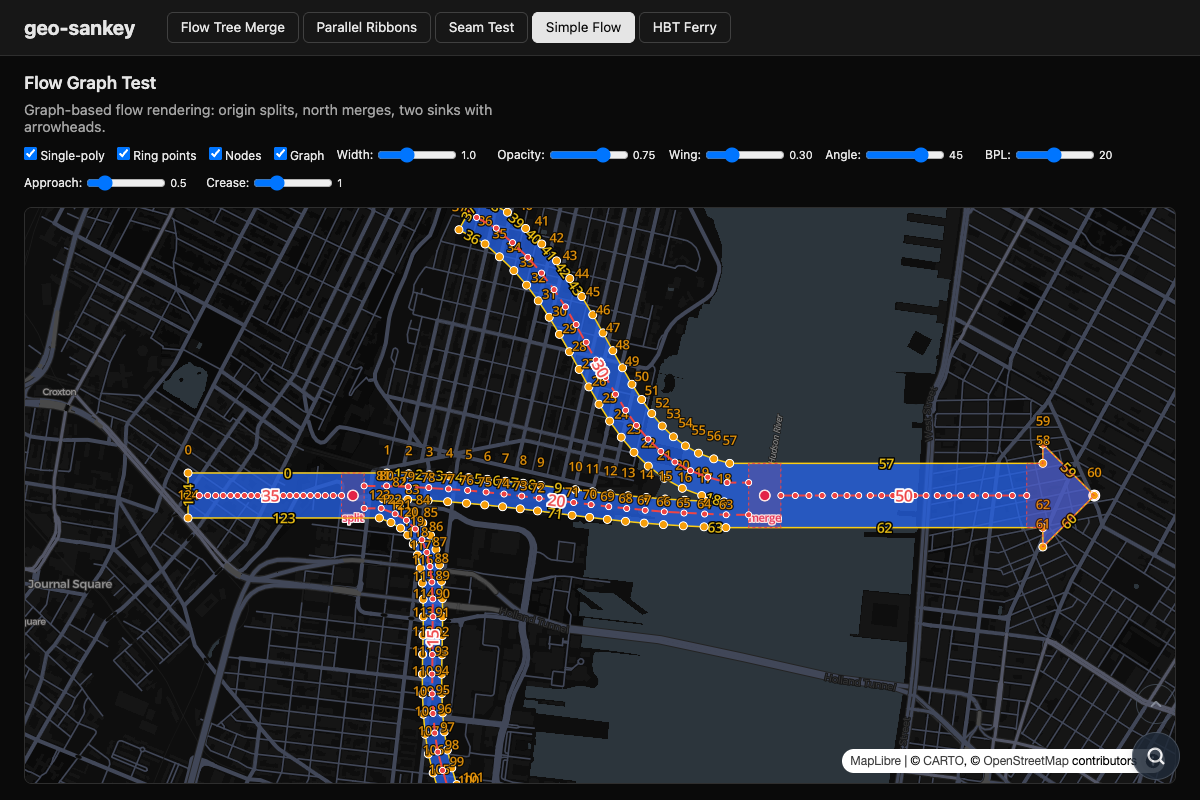
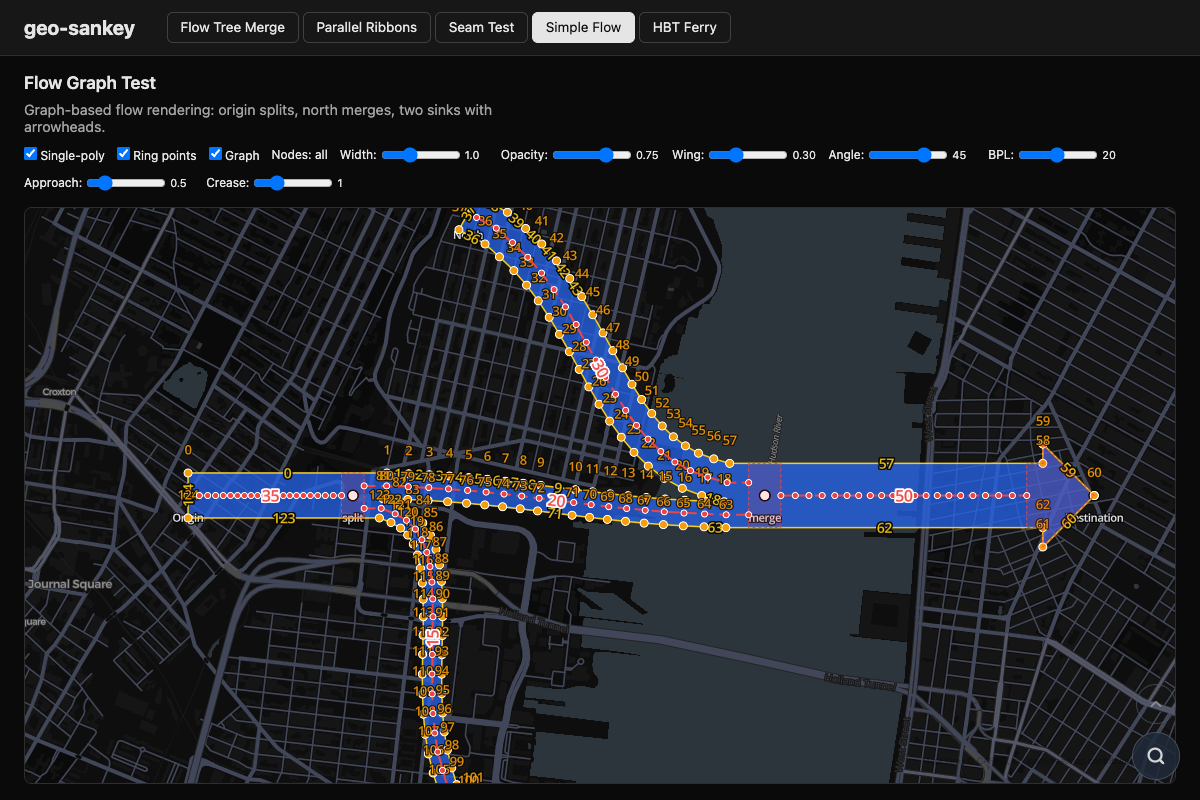
Update README, screenshots, and `scrns` config
- README: clarify NY Waterway (partial), clickable screenshot links to demo state, `wing` default 0.4
- Screenshots: regenerated with endpoint labels, tighter crop, no UI artifacts
- Remove unused screenshots (`hbt-ferry-graph`, `simple-flow`)
- Fix `scrns` config: flat `ScreenshotsMap` export (was nested, only took one screenshot)

🤖 Generated with [Claude Code](https://claude.com/claude-code)

diff --git a/scrns.config.ts b/scrns.config.ts
@@ -1,28 +1,17 @@
-import type { Config } from 'scrns'
+import type { ScreenshotsMap } from 'scrns'
 
 const selector = '.maplibregl-canvas'
 const width = 1200
-const height = 800
 const preScreenshotSleep = 5000
 
-const config: Config = {
-  screenshots: {
-    'hbt-ferry': {
-      query: '?ex=hbt&sp=1&o=0.75&llz=40.7450_-74.0150_14.00',
-      selector, width, height, preScreenshotSleep,
-    },
-    'hbt-ferry-graph': {
-      query: '?ex=hbt&sp=1&o=0.75&llz=40.7450_-74.0150_14.00&graph=1&nodes=1',
-      selector, width, height, preScreenshotSleep,
-    },
-    'simple-flow': {
-      query: '?ex=ferry&sp=1&o=0.75&llz=40.7350_-74.0300_13.50',
-      selector, width, height, preScreenshotSleep,
-    },
-    'simple-flow-debug': {
-      query: '?ex=ferry&sp=1&o=0.75&llz=40.7350_-74.0300_13.50&ring=1&graph=1&nodes=1',
-      selector, width, height, preScreenshotSleep,
-    },
+const config: ScreenshotsMap = {
+  'hbt-ferry': {
+    query: '?ex=hbt&sp=1&o=0.85&nodes=1&llz=40.7415_-74.0180_12.60',
+    selector, width: 900, height: 1100, preScreenshotSleep,
+  },
+  'simple-flow-debug': {
+    query: '?ex=ferry&sp=1&o=0.75&llz=40.7350_-74.0300_13.50&ring=1&graph=1&nodes=2',
+    selector, width, height: 800, preScreenshotSleep,
   },
 }
 

diff --git a/README.md b/README.md
@@ -1,14 +1,12 @@
 # geo-sankey
 
-Pure-geometry library for geographic flow maps: width-proportional ribbon polygons with merge/split layout on real maps.
-
-Given a graph of positioned nodes and weighted edges, `geo-sankey` computes ribbon polygon geometry and outputs GeoJSON. No rendering dependencies — works with any map renderer (MapLibre, Leaflet, deck.gl, etc.).
+Geometry library for geographic flow maps: width-proportional ribbon polygons with merge/split layout on real maps. Outputs GeoJSON — no rendering dependencies, works with any map renderer (MapLibre, Leaflet, deck.gl, etc.).
 
 **[Live Demo →][demo]** · [geo-sankey.rbw.sh][demo]
 
-| [HBT] Ferry Network | Simple Flow (debug overlays) |
+| [NY Waterway][nyw] ferry network (partial) | Simple Flow (debug overlays) |
 |---|---|
-| ![HBT Ferry](screenshots/hbt-ferry.png) | ![Simple Flow debug](screenshots/simple-flow-debug.png) |
+| [![HBT Ferry][hbt-img]][hbt-demo] | [![Simple Flow debug][sf-img]][sf-demo] |
 
 ## Install
 
@@ -53,7 +51,7 @@ const fc = renderFlowGraphSinglePoly(graph, {
 | Option | Default | Description |
 |--------|---------|-------------|
 | `pxPerWeight` | — | Pixels per unit weight (controls ribbon width) |
-| `wing` | `0.3` | Arrowhead wing extension (fraction of stem width, per side) |
+| `wing` | `0.4` | Arrowhead wing extension (fraction of stem width, per side) |
 | `angle` | `45` | Arrowhead wingtip angle (degrees) |
 | `bezierN` | `20` | Bezier sample count per edge (1 = straight lines) |
 | `nodeApproach` | `0.5` | Through-node approach zone (multiple of halfW) |
@@ -73,7 +71,7 @@ Bearings are auto-derived for nodes with a single output (toward dest) or sinks 
 
 The [demo site][demo] includes:
 
-- **[HBT] Ferry** — full Hudson–Bergen–TransHudson ferry network with splits, merges, and arrowheads
+- **HBT Ferry** — partial [NY Waterway][nyw] ferry network with splits, merges, and arrowheads
 - **Simple Flow** — 6-node graph demonstrating split + merge
 - Interactive controls: width scale, opacity, wing/angle, BPL, approach, crease
 - Debug overlays: ring points/edges with tooltips, graph bezier spines, approach rectangles
@@ -112,7 +110,11 @@ The [demo site][demo] includes:
 - [transit-map] (juliuste) — SVG transit maps
 
 [demo]: https://geo-sankey.rbw.sh
-[HBT]: https://hbt.hccs.dev
+[nyw]: https://www.nywaterway.com
+[hbt-img]: screenshots/hbt-ferry.png
+[hbt-demo]: https://geo-sankey.rbw.sh/?ex=hbt&sp=1&o=0.85&nodes=1&llz=40.7415_-74.0180_12.60
+[sf-img]: screenshots/simple-flow-debug.png
+[sf-demo]: https://geo-sankey.rbw.sh/?ex=ferry&sp=1&o=0.75&llz=40.7350_-74.0300_13.50&ring=1&graph=1&nodes=2
 [flowmap.gl]: https://github.com/visgl/flowmap.gl
 [spatialsankey]: https://github.com/nicholasjprimianomd/spatialsankey
 [Transitive.js]: https://github.com/conveyal/transitive.js
